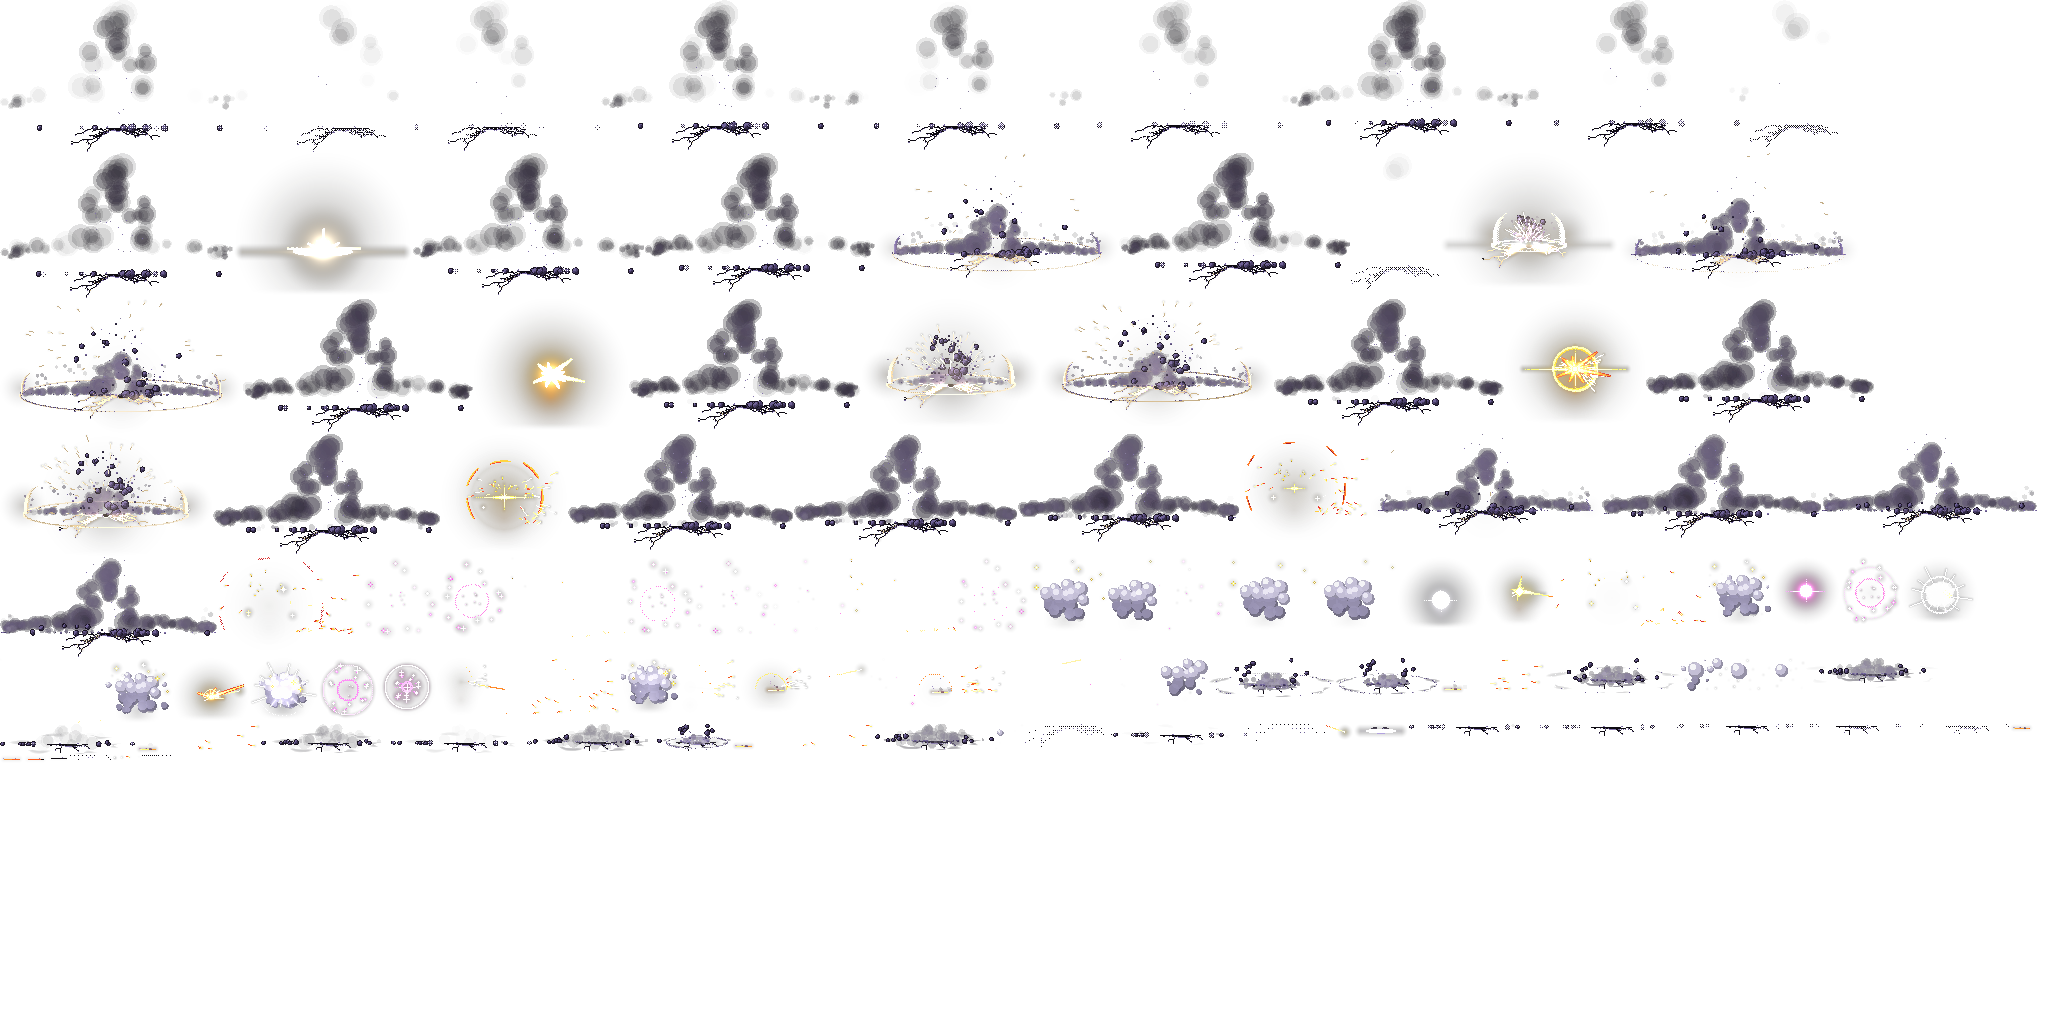
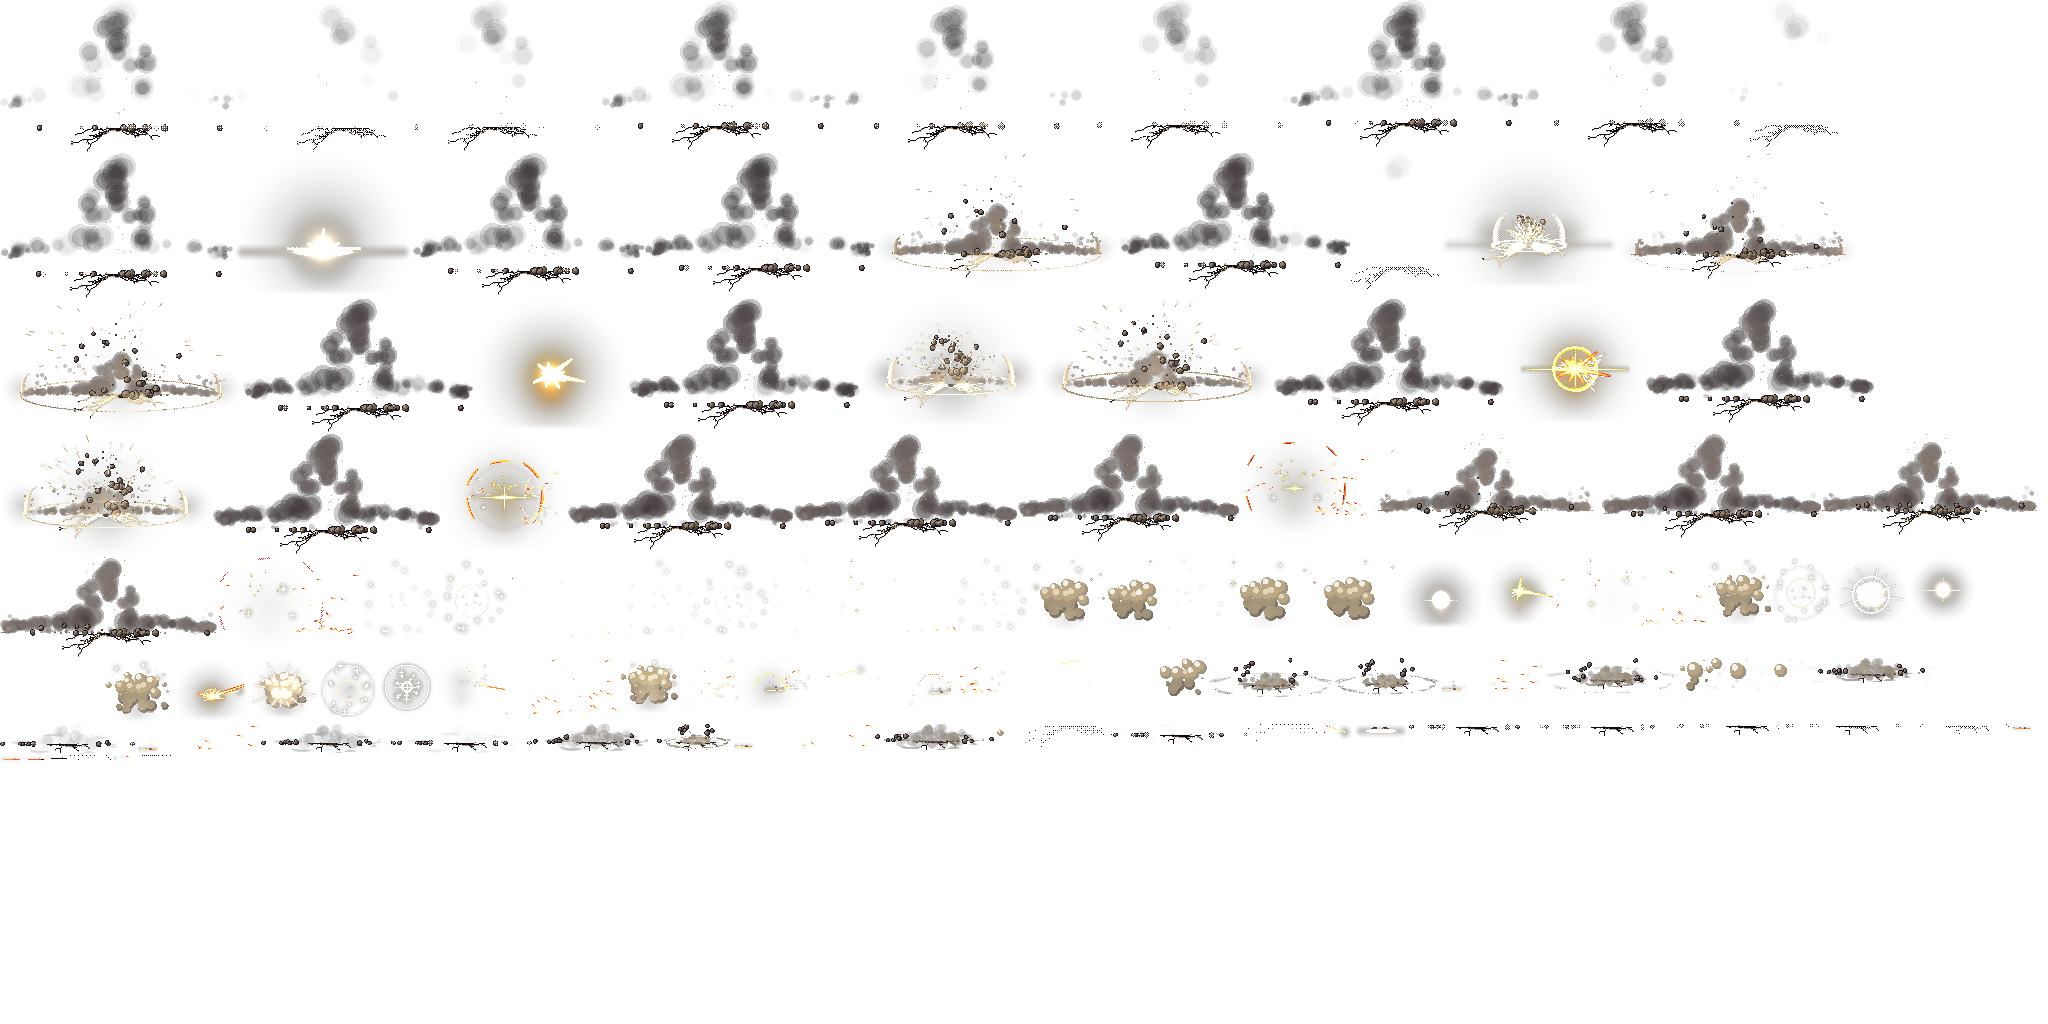
art(efekt): rebake shared atlas with neutral dust palettes and warm-grey stone
Claude-Session: https://claude.ai/code/session_01KrtXAF1Wj6n52bscqcAp43

diff --git a/kaynak/efekt/pixelfx/KAYNAK.md b/kaynak/efekt/pixelfx/KAYNAK.md
@@ -2,8 +2,8 @@
 
 - **Kaynak:** https://github.com/patch-gg/pixelfx, commit `a84159688af3ca37a4be05a0d422b94451b2e24e` (2026-10-31), sürüm 0.3.0.
 - **Lisans:** MIT (`LICENSE` ve `NOTICE.md` aynen kopyalandı). Telif: Patch; Hugo Duprez (Sprite Fusion uyarlamaları). `gallery/fonts` (Patch Pixel) MIT dışı, **kullanılmaz**.
-- **Durum (2026-11-04, sahip onayıyla):** 16 efekt `node tools/render.mjs <id> --sheet --no-actor --bg none --fps 12` ile pişirildi, kare başına kırpılıp 7 atlasa paketlendi: `atlas/efekt.png` (ortak, 2048×1024) + `atlas/efekt-<element>.png` (6 element, ≤ 1024²). Pixi `Spritesheet` JSON biçimi (`frames`, `animations`, kırpılmış kareler için `spriteSourceSize`/`sourceSize`, `anchor` = pixelfx pivot); `meta.devran` içinde fps, döngü, kare süresi. Toplam PNG 2 925 020 B. Araçlar `arac/` (bake.py, pack.py, prev2.py), önizleme `onizleme.png`.
+- **Durum (2026-11-04, sahip onayıyla):** 16 efekt `node tools/render.mjs <id> --sheet --no-actor --bg none --fps 12` ile pişirildi, kare başına kırpılıp 7 atlasa paketlendi: `atlas/efekt.png` (ortak, 2048×1024) + `atlas/efekt-<element>.png` (6 element, ≤ 1024²). Pixi `Spritesheet` JSON biçimi (`frames`, `animations`, kırpılmış kareler için `spriteSourceSize`/`sourceSize`, `anchor` = pixelfx pivot); `meta.devran` içinde fps, döngü, kare süresi. Toplam PNG 2 925 365 B. Araçlar `arac/` (bake.py, pack.py, prev2.py), önizleme `onizleme.png`.
 - **Değiştirilmiş efekt:** `water/whirlpool` yerel fork'ta `SY` 0.6 → 0.875 (hibrit çanak oranı); `arac/whirlpool-SY.diff`. MIT gereği değişiklik burada kayıtlı.
 - **Bütçe:** ham 30 fps tam tuval ≈ 2048²'nin 8,1 katı; 12 fps birleşik kutu kırpma 2,28 katı → atlas bölündü. İlk denemede kare sınırı fps'i 3-4'e düşürdü (çok kesik), bırakıldı.
 - Yazı içeren efekt seçilmedi; `--no-actor` ile kukla/karakter gövdesi çıkarılır.
-- **Bekleyen yeniden pişirme (2026-11-04, § 9.2):** reçetede 4 efektin (heavy-landing, ground-slam, poof, collect-burst) paleti ve `secenek` alanı güncellendi; atlas henüz eski. Komutlar: pixelfx `a841596` klonunu `<S>/dl/pixelfx`'e, SY fork'unu `<S>/dl/pixelfx-fork`'a koy, ardından `cd <S> && python3 arac/bake.py <S> recete.json`, `python3 arac/pack.py <S> atlas recete.json` ve `python3 arac/prev2.py atlas onizleme.png`.
+- **Yeniden pişirme (2026-11-04, sahip izniyle; efekt-kaynaklari.md § 9.7):** 4 efektin (heavy-landing, ground-slam, poof, collect-burst) paleti ve `secenek` alanı (stone/stars) güncellendi, `efekt.png` yeniden pişirildi. Komutlar: pixelfx `a841596` klonunu `<S>/dl/pixelfx`'e, SY fork'unu `<S>/dl/pixelfx-fork`'a koy, ardından `cd <S> && python3 arac/bake.py <S> recete.json`, `python3 arac/pack.py <S> atlas recete.json` ve `python3 arac/prev2.py atlas onizleme.png`.

diff --git a/docs/art/efekt-kaynaklari.md b/docs/art/efekt-kaynaklari.md
@@ -434,7 +434,7 @@ Kayıtlar: `veri/manifest-ses.json` → `kayitAdaylari` (oyun yüklemiyor), `ver
 
 | Atlas | Boyut | Kare | Bayt | Efektler |
 |---|---|---|---|---|
-| `efekt.png` (ortak) | 2048×1024 | 114 | 656 280 | kivilcim, kritik, sekme-iz, toz-halka, zemin-sok, toz-bulut, enerji-doldu |
+| `efekt.png` (ortak) | 2048×1024 | 114 | 656 625 (§ 9.7 yeniden pişirme) | kivilcim, kritik, sekme-iz, toz-halka, zemin-sok, toz-bulut, enerji-doldu |
 | `efekt-kor.png` | 1024² | 45 | 516 616 | ulti-kor |
 | `efekt-don.png` | 1024² | 74 | 419 354 | don-kirilma, ulti-don |
 | `efekt-kaya.png` | 1024² | 39 | 188 952 | ulti-kaya |
@@ -535,7 +535,7 @@ kenney.nl otomatik istemciyi reddediyor (§ 9.1). Paket OGA'da ve kenney.itch.io
 - **Dolaylı kanıt:** Aynı yazarın OGA'daki Interface Sounds zip'inde Kenney'nin `License.txt` şablonu var ("License: (Creative Commons Zero, CC0)"). Impact paketinin kendi `License.txt`'si alınamadı; **uydurulmadı**.
 - **Sahip için:** kenney.nl/assets/impact-sounds'tan zip'i tarayıcıdan indirip depoya (ya da sohbete) koyarsan karşılaştırırım.
 
-### 9.7 pixelfx toz paleti (hazır, pişirilmedi)
+### 9.7 pixelfx toz paleti (pişirildi, sahip izniyle)
 
 `recete.json` ve `arac/bake.py` güncellendi: `secenek` alanı `--opts`'a ekleniyor; eski `kareSiniri` KeyError'ı giderildi.
 
@@ -546,11 +546,13 @@ kenney.nl otomatik istemciyi reddediyor (§ 9.1). Paket OGA'da ve kenney.itch.io
 | `spawn/poof` | toz-6: `#3A3024,#6E604C,#A8987C,#C2AC86,#EDE0C8,#FFFFFF` | `stars: #C2AC86,#EDE0C8,#FFFFFF` |
 | `pickups/collect-burst` | nötr açık-8 `#1E1A14 … #FFFFFF` (oyunda element rengiyle tint) | — |
 
-`node tools/render.mjs` (dış kod) bu oturumda otomatik izin denetimince reddedildi. Atlas ve `onizleme.png` hâlâ eski (mor/pembe). Komutlar `kaynak/efekt/pixelfx/KAYNAK.md`'de.
+**Pişirme (sahip "her şeyi çalıştırabilirsin" dedi):** 16 efektin hepsi yeniden render edildi (`arac/bake.py`, `pack.py`, `prev2.py`). Çıktı deterministik: 6 element atlası bayt bayt aynı çıktı; yalnız `efekt.png` + `efekt.json` değişti (656 280 → 656 625 B). Önizlemede gözle bakıldı:
+- `toz-halka` (heavy-landing) ve `toz-bulut` (poof) bej-gri toz; yıldızlar krem.
+- `zemin-sok` (ground-slam) taşları ve dumanı sıcak gri; mor yok.
+- `enerji-doldu` (collect-burst) beyaz-krem; oyunda element rengiyle tint edilecek.
 
 ### 9.8 Sahip kararı bekleyenler
 
 - **K10 müzik bütçesi:** § 9.4'teki (a), (b) ya da (c).
-- **K11 pixelfx render izni:** Bash `node …/tools/render.mjs` için izin kuralı ya da izin modu.
 - **K12 elle indirme:** Foozle, Aim Studios ve Kenney Impact zip'leri (tarayıcıdan).
 - **K13 G17 Ragnapixel (CC-BY 4.0):** Yalnız ücretsiz demo kullanılabilir; gerekli mi?
